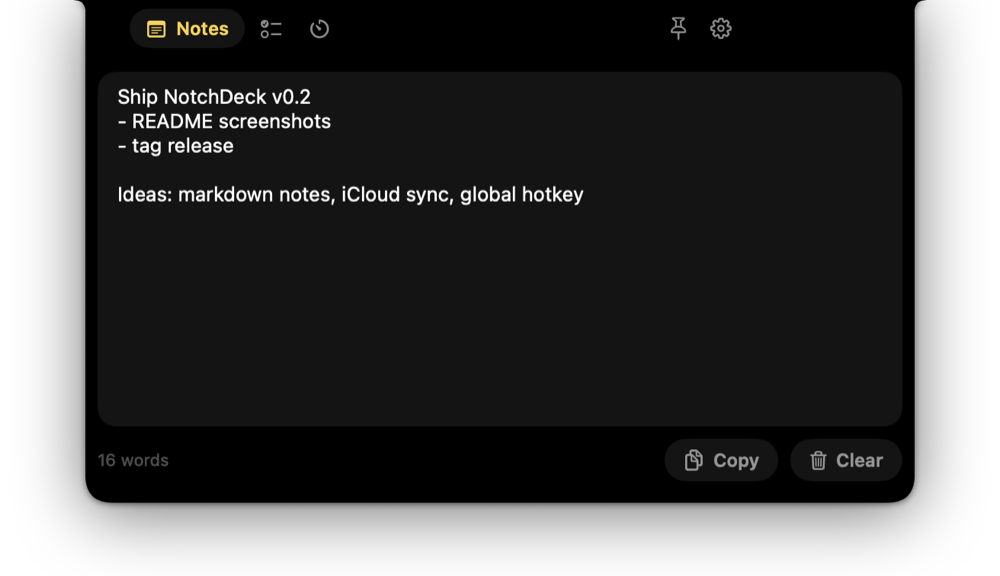
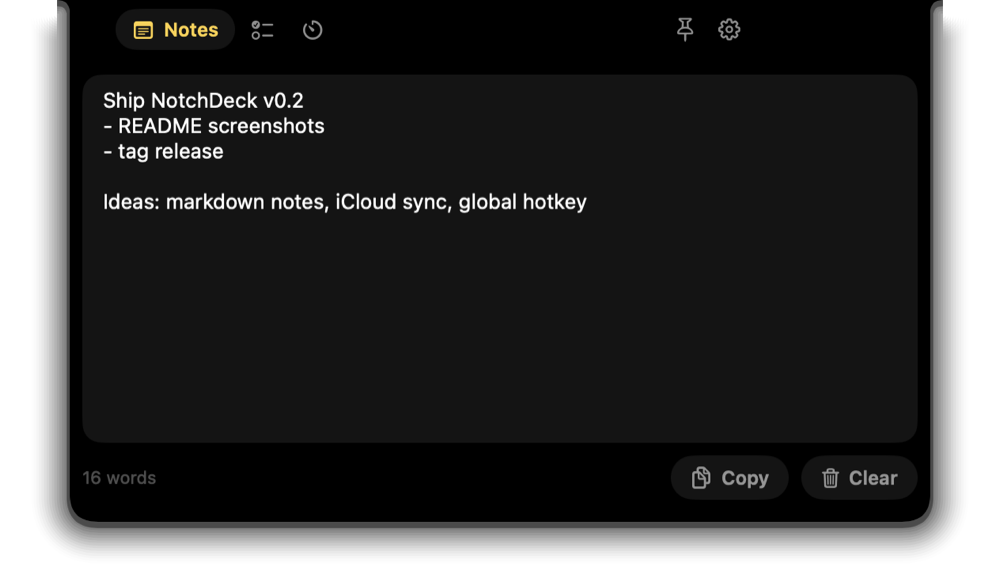
Fix the panel shadow: draw it from geometry instead of a compositor filter
SwiftUI's .shadow (and blur) filters render in window captures but the
on-screen compositor drops them for this transparent above-menu-bar panel,
which left only a hard-edged sliver next to the shape. The window-server
shadow is too faint for a non-key panel. SoftShadow now builds the shadow
from concentric translucent strokes of the notch shape, which composite
reliably and wrap the whole element with a smooth falloff.

The window keeps a transparent margin for the shadow and toggles
ignoresMouseEvents from the mouse monitor so clicks in that margin fall
through to whatever is underneath. isFloatingPanel is gone; it only ever
caused side effects. README screenshots re-captured.

Changed region(s): [[0.031, 0.0, 0.961, 0.9688], [0.124, 0.0312, 0.341, 0.0938], [0.651, 0.0312, 0.744, 0.0938]]

diff --git a/Sources/NotchDeck/NotchWindowController.swift b/Sources/NotchDeck/NotchWindowController.swift
@@ -55,16 +55,20 @@ final class NotchWindowController {
                                backing: .buffered, defer: false)
         panel.isOpaque = false
         panel.backgroundColor = .clear
-        panel.hasShadow = false
         panel.isMovable = false
         panel.isMovableByWindowBackground = false
         panel.hidesOnDeactivate = false
         panel.becomesKeyOnlyIfNeeded = true
-        panel.isFloatingPanel = true
-        // Must come after `isFloatingPanel`, which resets the level to `.floating`.
         // We sit above the menu bar so the notch strip is ours.
         panel.level = NSWindow.Level(rawValue: Int(CGWindowLevelForKey(.mainMenuWindow)) + 3)
         panel.animationBehavior = .none
+        // The shadow is drawn by SoftShadow (plain geometry). Neither the
+        // window-server shadow (too faint for a non-key panel) nor SwiftUI's
+        // `.shadow` filter (dropped by the compositor for this transparent
+        // panel) render acceptably here.
+        panel.hasShadow = false
+        // Start click-through; the mouse monitor enables events when the cursor is over the shape.
+        panel.ignoresMouseEvents = true
         panel.collectionBehavior = [.canJoinAllSpaces, .stationary, .fullScreenAuxiliary, .ignoresCycle]
 
         let root = NotchRootView()
@@ -173,6 +177,9 @@ final class NotchWindowController {
         let inside = shapeFrame.contains(NSEvent.mouseLocation)
         guard inside != mouseInside else { return }
         mouseInside = inside
+        // Only the visible shape should catch clicks; the shadow margin lets
+        // them fall through to whatever is underneath.
+        panel.ignoresMouseEvents = !inside
         inside ? mouseEntered() : mouseExited()
     }
 
@@ -216,6 +223,7 @@ final class NotchWindowController {
             guard let self, !self.viewModel.isExpanded else { return }
             self.panel.setFrame(self.viewModel.geometry.windowFrame(for: self.viewModel.collapsedSize), display: true)
             self.mouseInside = self.shapeFrame.contains(NSEvent.mouseLocation)
+            self.panel.ignoresMouseEvents = !self.mouseInside
         }
     }
 
@@ -240,6 +248,7 @@ final class NotchWindowController {
         updateWingWidth()
         panel.setFrame(geometry.windowFrame(for: viewModel.currentSize), display: true)
         mouseInside = shapeFrame.contains(NSEvent.mouseLocation)
+        panel.ignoresMouseEvents = !mouseInside
     }
 
     private func updateWingWidth() {

diff --git a/Sources/NotchDeck/Views/NotchRootView.swift b/Sources/NotchDeck/Views/NotchRootView.swift
@@ -9,20 +9,20 @@ struct NotchRootView: View {
                    bottomRadius: vm.isExpanded ? NotchViewModel.bottomRadius : 12)
     }
 
+    /// The collapsed top pill stays flat so it blends into the hardware notch.
     private var shadowStrength: Double {
         if vm.isExpanded { return 1 }
-        return vm.edge == .top ? 0 : 0.7
+        return vm.edge == .top ? 0 : 0.75
     }
 
     var body: some View {
         ZStack(alignment: vm.alignment) {
+            SoftShadow(shape: shape, strength: shadowStrength)
+                .frame(width: vm.currentSize.width, height: vm.currentSize.height)
+
             shape
                 .fill(Theme.background)
                 .frame(width: vm.currentSize.width, height: vm.currentSize.height)
-                // A tight contact shadow plus a soft ambient one. The collapsed
-                // top pill stays flat so it blends into the hardware notch.
-                .shadow(color: .black.opacity(shadowStrength * 0.5), radius: 2, y: 1)
-                .shadow(color: .black.opacity(shadowStrength * 0.55), radius: 22, y: 6)
 
             Group {
                 if vm.isExpanded {
@@ -38,6 +38,34 @@ struct NotchRootView: View {
         }
         .frame(maxWidth: .infinity, maxHeight: .infinity, alignment: vm.alignment)
         .preferredColorScheme(.dark)
+    }
+}
+
+/// A soft drop shadow built from concentric strokes of the shape. It uses no
+/// blur or shadow filters because the compositor drops those for this
+/// transparent panel; stacked translucent strokes give a quadratic falloff
+/// that reads like a blurred shadow.
+struct SoftShadow: View {
+    let shape: NotchShape
+    var strength: Double
+    var spread: CGFloat = 26
+    var steps = 16
+    var edgeOpacity: Double = 0.5
+
+    var body: some View {
+        ZStack {
+            // Tight contact shadow right at the edge.
+            shape.stroke(Color.black.opacity(strength * 0.35), lineWidth: 4)
+            // Ambient falloff: stroke i reaches spread * t outside the edge; the
+            // inner half is hidden under the fill. Outer strokes are fainter.
+            ForEach(0..<steps, id: \.self) { i in
+                let t = Double(i + 1) / Double(steps)
+                shape.stroke(Color.black.opacity(strength * edgeOpacity * 2 / Double(steps) * (1 - t) * 1.6),
+                             lineWidth: spread * 2 * t)
+            }
+        }
+        .offset(y: 2)
+        .allowsHitTesting(false)
     }
 }
 

diff --git a/Sources/NotchDeck/NotchGeometry.swift b/Sources/NotchDeck/NotchGeometry.swift
@@ -54,8 +54,9 @@ struct NotchGeometry: Equatable {
         self.notchHeight = notchHeight
     }
 
-    /// Transparent margin around the shape so its shadow has room to render.
-    static let shadowMargin: CGFloat = 48
+    /// Transparent margin around the shape so the drawn shadow has room.
+    /// The window ignores mouse events while the cursor is in this margin.
+    static let shadowMargin: CGFloat = 36
 
     /// Window frame: the shape frame plus shadow margin on every side that is
     /// not glued to the screen edge.

diff --git a/README.md b/README.md
@@ -143,7 +143,12 @@ does the same signing. To sign a release by hand instead of in CI, use
   `auxiliaryTopRightArea` to size the sliver exactly like the physical notch,
   and computes frames for the top, left and right placements.
 - `NotchShape` draws the notch silhouette (concave ears, rounded free corners)
-  and rotates it for side placements.
+  and rotates it for side placements. Its drop shadow (`SoftShadow`) is a stack
+  of translucent strokes rather than SwiftUI's `.shadow`, because the
+  compositor drops blur/shadow filters for this transparent panel and the
+  window-server shadow is too faint for a non-key panel. The window carries a
+  transparent margin for it and toggles `ignoresMouseEvents` so clicks in the
+  margin fall through to whatever is underneath.
 - `PomodoroEngine` derives the remaining time from an end date so it stays
   accurate if timers are throttled; the cycle logic is covered by unit tests.
 - `AppStore` is a single `ObservableObject` persisted as JSON with debounced
